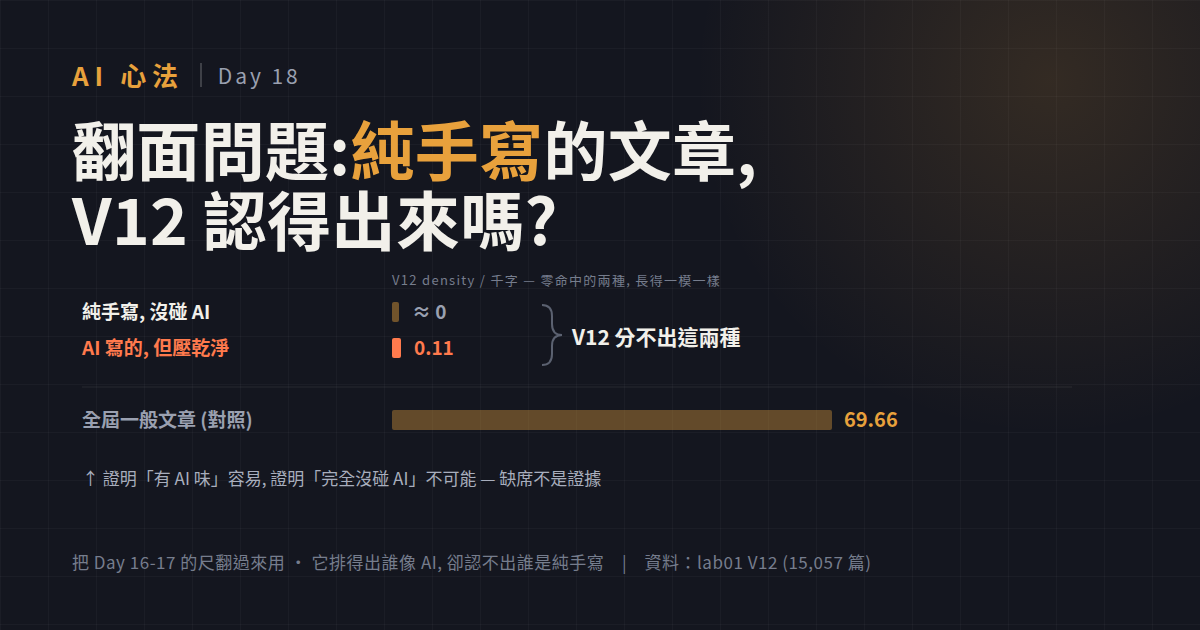
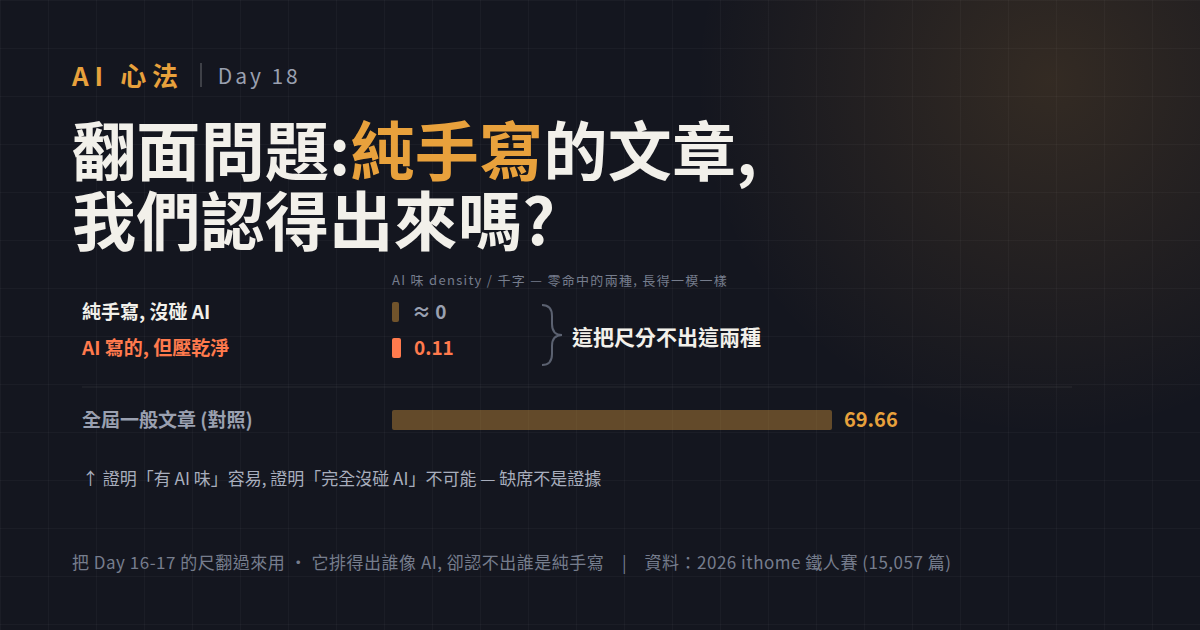
Day 18 封面改字 + 瀏覽器 script 搬家、去 V12 化、每站自動掃
封面 cover-day18.html:
- 大標「V12 認得出來嗎」→「我們認得出來嗎」, 移除所有 V12 字樣
- 資料來源「lab01 V12」→「2026 ithome 鐵人賽」

script 搬到固定位置 05-notes/assets/browser-ranker.user.js:
- 去掉 v08c / v09 / v11 三個訊號, 剩 6 個排版訊號 (N_sum 上限 14.5)
- 移除 V12 / lab01 所有字樣, 顯示標籤 all → 「all 粗體標籤」
- 對照基準改為 6 訊號全體 density 49.4
- 改成每個網站都自動掃 (拿掉 iThome-only 限制)

draft / titles.md: 同步更新連結路徑與簡化版說明

Claude-Session: https://claude.ai/code/session_01SkUscqAqqbTWPySrqyQb5A

diff --git a/05-notes/assets/browser-ranker.user.js b/05-notes/assets/browser-ranker.user.js
@@ -1,8 +1,8 @@
 // ==UserScript==
-// @name         lab01 V12 AI 味即時掃描 — N_sum & density
+// @name         AI 味即時掃描 — N_sum & density
 // @namespace    https://github.com/jason3e7/ai-101
-// @version      1.0.0
-// @description  在瀏覽網頁時, 用 lab01 V12 的 9 個訊號即時算出 N_sum 與 density (每千字), 浮出一個小面板. iThome 文章頁自動掃, 其他網頁從 Tampermonkey 選單「V12 掃描這頁」手動觸發. 這是共現訊號, 不是判決.
+// @version      2.0.0
+// @description  瀏覽任何網頁時, 用排版訊號即時算出 N_sum 與 density (每千字), 浮出一個小面板. 每個網站都會自動掃. 這是共現訊號, 不是判決.
 // @author       jason3e7 + Claude
 // @match        *://*/*
 // @grant        GM_registerMenuCommand
@@ -10,26 +10,23 @@
 // ==/UserScript==
 
 /*
- * 跟 analyzeV12.py 對齊的 9 個訊號與權重 (2026-10-02 套用後):
+ * 6 個排版訊號與權重:
  *
  *   訊號            B (數量)                                   N (權重, Bᵢ>0 才計)
  *   em     ——       innerText 裡 "——" 出現次數                 4
  *   emoji           emoji 字元數 (扣掉 ○✗★☆☐)                  min(distinct_types, 5)
  *   strict          <li> 開頭的 <strong>標籤</strong>：          3
- *   all             <strong> 總數                               0  (只進 B_total, 當放大器)
+ *   all 粗體標籤     <strong> 總數                               0  (只進 B_total, 當放大器)
  *   bq              <blockquote> 數                             1
  *   hr              <hr> 數                                     1.5
- *   v08c   不是…而是  不(只)?是…(而是|更是)                       3
- *   v09    最容易…的  最容易[中文]{1,5}的                         3
- *   v11    標題 ｜    標題含全形 ｜                              2  (binary)
  *
  *   B_total = ΣBᵢ
- *   N_sum   = Σ Nᵢ (只加 Bᵢ>0 的)
+ *   N_sum   = Σ Nᵢ (只加 Bᵢ>0 的)              最高 14.5
  *   base    = B_total × N_sum
  *   density = base / 去空白字數 × 1000   ← 「每千字」
  *
- * 全屆 2026 鐵人賽 15,057 篇的 V12 全體 density ≈ 69.7, 可當對照基準.
- * <pre> 程式碼區塊整段排除 (跟 analyzer 一樣), 標題不算進字數 (只有 v11 看標題).
+ * 2026 iThome 鐵人賽 15,057 篇的全體 density ≈ 49.4, 可當對照基準.
+ * <pre> 程式碼區塊整段排除, 標題不算進字數.
  */
 
 (function () {
@@ -37,18 +34,14 @@
 
   const SCALE = 1000;
   const EMOJI_EXCLUDE = new Set(['○', '✗', '★', '☆', '☐']);
-  const CORPUS_DENSITY = 69.7; // V12 全屆平均, 供對照
+  const CORPUS_DENSITY = 49.4; // 2026 鐵人賽全體平均, 供對照
 
-  // --- 跟 analyzeV12.py 相同的 pattern ---
   const RE_EM_DASH = /——/g;
   const RE_EMOJI = /[\u{1F300}-\u{1F5FF}\u{1F600}-\u{1F64F}\u{1F680}-\u{1F6FF}\u{1F700}-\u{1F8FF}\u{1F900}-\u{1F9FF}\u{1FA00}-\u{1FAFF}\u{2600}-\u{26FF}\u{2700}-\u{27BF}\u{1F1E6}-\u{1F1FF}]/gu;
   const RE_STRICT_BOLD_LI = /<li\b[^>]*>\s*(?:<p\b[^>]*>\s*)?<strong\b[^>]*>([^<>]+)<\/strong>[：:\s]*[^\s<]/gi;
-  const RE_V08C = /不(?:只)?是[^。！？\n]{1,25}(?:而是|更是)/g;
-  const RE_V09 = /最容易[一-鿿]{1,5}的/g;
-  const PIPE = '｜'; // U+FF5C
 
   // N 權重 (Bᵢ>0 才計). emoji 另算 min(types,5).
-  const N = { em: 4, strict: 3, all: 0, bq: 1, hr: 1.5, v08c: 3, v09: 3, v11: 2 };
+  const N = { em: 4, strict: 3, all: 0, bq: 1, hr: 1.5 };
   const EMOJI_TYPES_CAP = 5;
 
   function pickContainer() {
@@ -58,14 +51,9 @@
       || document.body;
   }
 
-  function pickTitle() {
-    const el = document.querySelector('.qa-header__title, .qa-list__title, article h1, h1');
-    return (el ? el.textContent : document.title) || '';
-  }
-
   function measure() {
     const container = pickContainer();
-    // 複製一份, 拿掉 <pre> / <script> / <style> (跟 analyzer 一樣排除程式碼區塊)
+    // 複製一份, 拿掉 <pre> / <script> / <style> (排除程式碼區塊)
     const clone = container.cloneNode(true);
     clone.querySelectorAll('pre, script, style, noscript').forEach((n) => n.remove());
 
@@ -82,13 +70,10 @@
     const strict_B = (htmlNoPre.match(RE_STRICT_BOLD_LI) || []).length;
     const bq_B = clone.querySelectorAll('blockquote').length;
     const hr_B = clone.querySelectorAll('hr').length;
-    const v08c_B = (text.match(RE_V08C) || []).length;
-    const v09_B = (text.match(RE_V09) || []).length;
-    const v11_B = pickTitle().includes(PIPE) ? 1 : 0;
 
     const chars = text.replace(/\s/g, '').length;
 
-    const b_total = em_B + emoji_B + strict_B + all_B + bq_B + hr_B + v08c_B + v09_B + v11_B;
+    const b_total = em_B + emoji_B + strict_B + all_B + bq_B + hr_B;
     const emoji_n = emoji_B > 0 ? Math.min(emoji_types, EMOJI_TYPES_CAP) : 0;
     const n_sum =
       (em_B > 0 ? N.em : 0) +
@@ -96,10 +81,7 @@
       (strict_B > 0 ? N.strict : 0) +
       (all_B > 0 ? N.all : 0) +
       (bq_B > 0 ? N.bq : 0) +
-      (hr_B > 0 ? N.hr : 0) +
-      (v08c_B > 0 ? N.v08c : 0) +
-      (v09_B > 0 ? N.v09 : 0) +
-      (v11_B > 0 ? N.v11 : 0);
+      (hr_B > 0 ? N.hr : 0);
     const base = b_total * n_sum;
     const density = chars ? (base / chars) * SCALE : 0;
 
@@ -108,12 +90,9 @@
         ['em ——', em_B, em_B > 0 ? N.em : 0],
         ['emoji', emoji_B + ' (' + emoji_types + '種)', emoji_n],
         ['strict 粗體標籤', strict_B, strict_B > 0 ? N.strict : 0],
-        ['all <strong>', all_B, 0],
+        ['all 粗體標籤', all_B, 0],
         ['blockquote', bq_B, bq_B > 0 ? N.bq : 0],
         ['hr 分隔線', hr_B, hr_B > 0 ? N.hr : 0],
-        ['v08c 不是…而是', v08c_B, v08c_B > 0 ? N.v08c : 0],
-        ['v09 最容易…的', v09_B, v09_B > 0 ? N.v09 : 0],
-        ['v11 標題 ｜', v11_B, v11_B > 0 ? N.v11 : 0],
       ],
       b_total, n_sum, base, density, chars,
       container: container === document.body ? 'document.body (泛用掃描)' : (container.className || container.tagName.toLowerCase()),
@@ -121,15 +100,15 @@
   }
 
   function render(r) {
-    document.getElementById('v12-ranker-panel')?.remove();
+    document.getElementById('ai-ranker-panel')?.remove();
 
     const panel = document.createElement('div');
-    panel.id = 'v12-ranker-panel';
+    panel.id = 'ai-ranker-panel';
     const dense = r.density;
     const color = dense >= CORPUS_DENSITY ? '#d9480f' : dense >= CORPUS_DENSITY / 2 ? '#e8590c' : '#2b8a3e';
 
     const rowsHtml = r.rows.map(([name, b, n]) => {
-      const dim = (n === 0 && name !== 'all <strong>') || b === 0 ? 'opacity:.45' : '';
+      const dim = (n === 0 && name !== 'all 粗體標籤') || b === 0 ? 'opacity:.45' : '';
       return `<tr style="${dim}"><td style="padding:1px 6px 1px 0">${name}</td>
         <td style="text-align:right;padding:1px 6px">${b}</td>
         <td style="text-align:right;padding:1px 0;color:#868e96">${n || 0}</td></tr>`;
@@ -137,10 +116,10 @@
 
     panel.innerHTML = `
       <div style="display:flex;justify-content:space-between;align-items:center;margin-bottom:6px">
-        <strong style="font-size:13px">lab01 V12 掃描</strong>
+        <strong style="font-size:13px">AI 味掃描</strong>
         <span>
-          <button id="v12-rescan" title="重新掃描" style="cursor:pointer;border:0;background:#f1f3f5;border-radius:4px;padding:1px 6px;font-size:12px">↻</button>
-          <button id="v12-close" title="關閉" style="cursor:pointer;border:0;background:#f1f3f5;border-radius:4px;padding:1px 7px;font-size:12px">×</button>
+          <button id="air-rescan" title="重新掃描" style="cursor:pointer;border:0;background:#f1f3f5;border-radius:4px;padding:1px 6px;font-size:12px">↻</button>
+          <button id="air-close" title="關閉" style="cursor:pointer;border:0;background:#f1f3f5;border-radius:4px;padding:1px 7px;font-size:12px">×</button>
         </span>
       </div>
       <div style="display:flex;gap:14px;margin-bottom:8px">
@@ -158,7 +137,7 @@
       <div style="font-size:11px;color:#868e96;line-height:1.5">
         B_total ${r.b_total} · base ${r.base} · 字數 ${r.chars}<br>
         來源: ${r.container}<br>
-        全屆 V12 平均 density ≈ ${CORPUS_DENSITY}<br>
+        2026 鐵人賽全體 density ≈ ${CORPUS_DENSITY}<br>
         <em>共現訊號, 不是判決. 高 ≠ 一定是 AI.</em>
       </div>`;
 
@@ -170,21 +149,19 @@
       font: '13px/1.4 -apple-system,"Noto Sans TC",sans-serif',
     });
     document.body.appendChild(panel);
-    panel.querySelector('#v12-close').onclick = () => panel.remove();
-    panel.querySelector('#v12-rescan').onclick = () => render(measure());
+    panel.querySelector('#air-close').onclick = () => panel.remove();
+    panel.querySelector('#air-rescan').onclick = () => render(measure());
   }
 
   function scan() {
     try { render(measure()); }
-    catch (e) { console.error('[V12] 掃描失敗', e); alert('V12 掃描失敗: ' + e.message); }
+    catch (e) { console.error('[AI 味掃描] 失敗', e); }
   }
 
   if (typeof GM_registerMenuCommand === 'function') {
-    GM_registerMenuCommand('V12 掃描這頁', scan);
+    GM_registerMenuCommand('掃描這頁', scan);
   }
 
-  // iThome 文章頁自動掃一次
-  if (/(^|\.)ithelp\.ithome\.com\.tw$/.test(location.host) && location.pathname.includes('/articles/')) {
-    scan();
-  }
+  // 每個網站都自動掃一次
+  scan();
 })();

diff --git a/05-notes/ironman/assets/cover-day18.html b/05-notes/ironman/assets/cover-day18.html
@@ -22,12 +22,12 @@ text{font-family:"Noto Sans CJK TC",sans-serif}
 <div class="wrap">
   <div class="top"><span class="mark">AI 心法</span><span class="bar"></span><span class="day">Day 18</span></div>
   <div>
-    <h1>翻面問題:<em>純手寫</em>的文章,<br>V12 認得出來嗎?</h1>
+    <h1>翻面問題:<em>純手寫</em>的文章,<br>我們認得出來嗎?</h1>
   </div>
   <div class="chartwrap">
   <svg width="1056" height="246" viewBox="0 0 1056 246">
     <!-- axis label -->
-    <text x="320" y="0" fill="#767d8d" font-size="13" letter-spacing=".1em" dy="10">V12 density / 千字 — 零命中的兩種, 長得一模一樣</text>
+    <text x="320" y="0" fill="#767d8d" font-size="13" letter-spacing=".1em" dy="10">AI 味 density / 千字 — 零命中的兩種, 長得一模一樣</text>
 
     <!-- Row 1: pure human (near zero) -->
     <text x="10" y="44" fill="#f2f0ea" font-size="19" font-weight="700">純手寫, 沒碰 AI</text>
@@ -41,7 +41,7 @@ text{font-family:"Noto Sans CJK TC",sans-serif}
 
     <!-- brace + verdict -->
     <path d="M470 30 q10 0 10 11 v8 q0 11 10 11 q-10 0 -10 11 v8 q0 11 -10 11" fill="none" stroke="#5b6170" stroke-width="2"/>
-    <text x="500" y="70" fill="#f2f0ea" font-size="21" font-weight="900">V12 分不出這兩種</text>
+    <text x="500" y="70" fill="#f2f0ea" font-size="21" font-weight="900">這把尺分不出這兩種</text>
 
     <!-- divider -->
     <line x1="10" y1="112" x2="1000" y2="112" stroke="#ffffff14" stroke-width="1"/>
@@ -55,5 +55,5 @@ text{font-family:"Noto Sans CJK TC",sans-serif}
     <text x="10" y="210" fill="#a8aebd" font-size="17">↑ 證明「有 AI 味」容易, 證明「完全沒碰 AI」不可能 — 缺席不是證據</text>
   </svg>
   </div>
-  <div class="foot">把 Day 16-17 的尺翻過來用 · 它排得出誰像 AI, 卻認不出誰是純手寫　|　資料：lab01 V12 (15,057 篇)</div>
+  <div class="foot">把 Day 16-17 的尺翻過來用 · 它排得出誰像 AI, 卻認不出誰是純手寫　|　資料：2026 ithome 鐵人賽 (15,057 篇)</div>
 </div></body></html>

diff --git a/05-notes/ironman/drafts/day16-20/day18-detecting-pure-human.md b/05-notes/ironman/drafts/day16-20/day18-detecting-pure-human.md
@@ -10,7 +10,7 @@ status: draft
 [← 回主頁](../../../../index.md)｜[參賽規劃](../../plan.md)｜[三十篇標題](../../titles.md)
 
 > [!NOTE]
-> lab01 文風檢測三部曲收尾. [Day 16](./day16-ai-fingerprint-scan.md) 用單指紋 (`——`) 掃全屆, [Day 17](./day17-composite-score.md) 疊到 6 個 signal 的綜合分數, 這 15 天我又把它養到了 **V12 (9 個 signal ＋ 權重微調)**. 這篇拿這把最細的尺去問一個**翻面**的問題: 不問「誰像 AI」, 改問「誰是純手寫、完全沒碰 AI」. 結論先講: **這把尺答不出來** —— 而且為什麼答不出來, 比它答得出什麼更值得講. 文末附一個 Tampermonkey script, 讓你瀏覽任何網頁時即時看到 V12 的 N_sum 與 density.
+> lab01 文風檢測三部曲收尾. [Day 16](./day16-ai-fingerprint-scan.md) 用單指紋 (`——`) 掃全屆, [Day 17](./day17-composite-score.md) 疊到 6 個 signal 的綜合分數, 這 15 天我又把它養到了 **V12 (9 個 signal ＋ 權重微調)**. 這篇拿這把最細的尺去問一個**翻面**的問題: 不問「誰像 AI」, 改問「誰是純手寫、完全沒碰 AI」. 結論先講: **這把尺答不出來** —— 而且為什麼答不出來, 比它答得出什麼更值得講. 文末附一個 Tampermonkey script, 讓你瀏覽任何網頁時即時看到 N_sum 與 density.
 
 > **TL;DR (EN):** The series closer. After refining the AI-tell detector all the way to V12 (9 signals, tuned weights, overall density 69.66 across all 15,057 articles), I flip the question: can it identify writing that is *purely human*, with no AI involved? It cannot - and the reason is epistemological, not a tuning problem. Zero signals can mean "no AI" or "AI used but cleaned up" (the Day 16 ChatGPT track scored 0.11, essentially invisible, because GPT-5.1 honors "no em-dash"). Proving presence is easy; proving absence is not. The detector gives a reliable *ranking* of AI-flavor, never a verdict of human authorship. Ships with a Tampermonkey userscript that runs the exact V12 scoring in your browser and shows N_sum + density per page.
 
@@ -69,7 +69,7 @@ status: draft
 > [!NOTE]
 > 粗體那三個新 signal (v08c / v09 / v11) 的權重是這兩天才用全站資料校過的: 排版性的 `｜` 標題 (v11) 從 5 **降到 2**, 文字層的「不是⋯而是」(v08c)、「最容易⋯的」(v09) 各升到 3, 讓「文字層的 AI 味」主導分數, 而不是「排版花俏」. 校的過程見 [v12-weight-tuning](../../lab01/v12-weight-tuning.md).
 
-重跑全站 15,057 篇、814 系列, **V12 全體 density 是 69.66**. 這個數字待會當對照基準 —— 你用文末的瀏覽器工具掃到的 density, 跟 69.66 比, 就知道這篇相對全屆是偏高還偏低.
+重跑全站 15,057 篇、814 系列, **V12 全體 density 是 69.66**. 這個數字是後面排名的基準 —— 數字越高, 相對全屆越偏「AI 味濃」. (注: 文末那個瀏覽器工具是**簡化版**, 只取 6 個排版訊號, 對照基準另為 49.4, 不是這裡的 69.66.)
 
 這把尺拿來**排序** AI 味, 到 V12 已經相當穩. 問題來了: 它能不能反過來認「人」?
 
@@ -92,26 +92,25 @@ status: draft
 
 ## 自己動手玩: 瀏覽器即時版 — A Tampermonkey Script
 
-講這麼多, 不如你自己拿去量. 我把 V12 的算法整個搬進瀏覽器, 做成一個 [Tampermonkey](https://www.tampermonkey.net/) userscript: 看網頁時浮出一個小面板, 即時給你**這一頁的 N_sum 和 density**, 外加 9 個 signal 的逐項拆解.
+講這麼多, 不如你自己拿去量. 我把這套算法的**排版訊號**部分搬進瀏覽器, 做成一個 [Tampermonkey](https://www.tampermonkey.net/) userscript: 瀏覽**任何網頁**時浮出一個小面板, 即時給你**這一頁的 N_sum 和 density**, 外加 6 個排版 signal 的逐項拆解.
 
-**檔案**: [`lab01/v12-browser-ranker.user.js`](../../lab01/v12-browser-ranker.user.js)
+**檔案**: [`05-notes/assets/browser-ranker.user.js`](../../../assets/browser-ranker.user.js)
 
 **怎麼裝**:
 
 1. 瀏覽器裝 Tampermonkey 擴充套件
-2. 開 Tampermonkey → 新增 script → 把 `v12-browser-ranker.user.js` 內容整段貼上 → 存檔
-3. 開任何一篇 iThome 鐵人賽文章, 右上角會**自動**浮出面板
-4. 其他網站: 點 Tampermonkey 圖示 → 選單選「V12 掃描這頁」手動觸發
+2. 開 Tampermonkey → 新增 script → 把 `browser-ranker.user.js` 內容整段貼上 → 存檔
+3. 開**任何網站**, 右上角都會**自動**浮出面板 (要重掃或換頁後再掃, 點面板的 ↻, 或 Tampermonkey 選單選「掃描這頁」)
 
 **面板給你什麼**:
 
-- **N_sum**: 這頁命中了哪些 signal、權重加起來多少 (滿分 22.5)
-- **density (每千字)**: `base ÷ 去空白字數 × 1000`, 跟全屆平均 69.66 比
-- 9 個 signal 的 B (數量) 與 N (權重) 逐項表, 沒命中的淡掉
+- **N_sum**: 這頁命中了哪些 signal、權重加起來多少 (滿分 14.5)
+- **density (每千字)**: `base ÷ 去空白字數 × 1000`, 跟全屆平均 49.4 比
+- 6 個排版 signal 的 B (數量) 與 N (權重) 逐項表, 沒命中的淡掉
 - density 顏色: 低於平均一半綠、接近平均橘、超過平均紅
 
 > [!NOTE]
-> 它跟 `analyzeV12.py` 的 9 個 signal、權重、公式完全對齊 (實測同一篇文章的 B 與 N_sum 數字一致; density 因瀏覽器算空白字數的方式略有 <1% 誤差). iThome 文章頁自動抓正文區塊 (`.markdown__style`), 其他網頁退而抓 `article` / `main` / 整頁, `<pre>` 程式碼區塊一律排除 —— 跟 analyzer 一樣.
+> 瀏覽器版只保留**排版層**的 6 個 signal (——、emoji、嚴格 / 一般粗體、blockquote、`<hr>`), 拿掉了文字層那三個 (不是⋯而是 / 最容易⋯的 / 標題 `｜`), 所以它是比 lab01 完整分數**簡化**的通用版, 全體 density 對照基準也降到 49.4. iThome 文章頁自動抓正文區塊 (`.markdown__style`), 其他網頁退而抓 `article` / `main` / 整頁, `<pre>` 程式碼區塊一律排除 —— 跟 analyzer 一樣.
 
 > [!WARNING]
 > 面板上的數字是**共現訊號, 不是判決.** density 高只代表「這篇疊了很多常見的 AI 排版/句型習慣」, 不代表「一定是 AI 寫的」; density 低也**不代表**「一定是人寫的」(這就是上一段整段在講的事). 拿它排序、拿它當提醒, 別拿它當證據去指認任何人.
@@ -146,7 +145,7 @@ status: draft
 
 - [lab01 V12 結果 (results-v12.md)](../../lab01/results-v12.md) — 本篇的數據基礎 (15,057 篇, density 69.66)
 - [lab01 V12 權重微調 (v12-weight-tuning.md)](../../lab01/v12-weight-tuning.md) — v08c/v09/v11 新權重怎麼校的
-- [v12-browser-ranker.user.js](../../lab01/v12-browser-ranker.user.js) — 本篇附的 Tampermonkey script
+- [browser-ranker.user.js](../../../assets/browser-ranker.user.js) — 本篇附的 Tampermonkey script (放在固定位置 `05-notes/assets/`)
 - [Day 16: 單指紋掃全屆](./day16-ai-fingerprint-scan.md) — ChatGPT 組 0.11 的來源
 - [Day 17: 從 1 個訊號擴到 6 個](./day17-composite-score.md) — 綜合分數的起點
 - [AI 生成內容怎麼標記與辨識](../../../../01-fundamentals/ai-content-watermark.md) — 為什麼連浮水印都不能證明「不是 AI」
